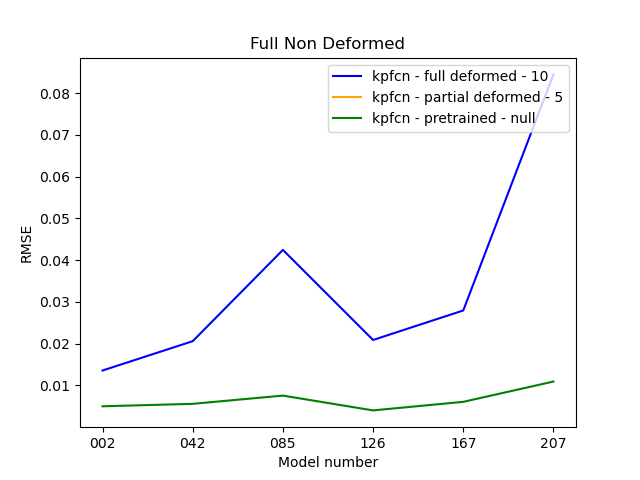
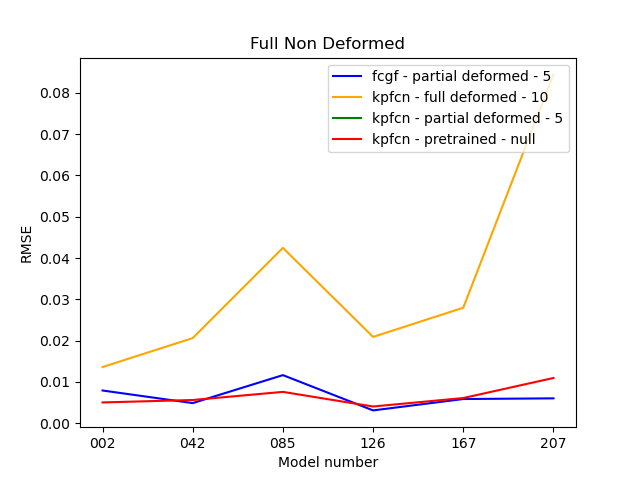
changing to fcgf full deformed

diff --git a/Testing/current_deformation/aggregate_data_all_weights_per_datatype.py b/Testing/current_deformation/aggregate_data_all_weights_per_datatype.py
@@ -6,10 +6,10 @@ import numpy as np
 data_types = ['full_deformed', 'partial_deformed', 'full_non_deformed', 'partial_non_deformed']
 
 weights = {
-    # 'fcgf' : {
+    'fcgf' : {
     #    'full_deformed' : 10, 
-    #    'partial_deformed' : 5
-    # }, 
+        'partial_deformed' : 5
+    }, 
     'kpfcn' : {
         'full_deformed' : 10, 
         'partial_deformed' : 5,
